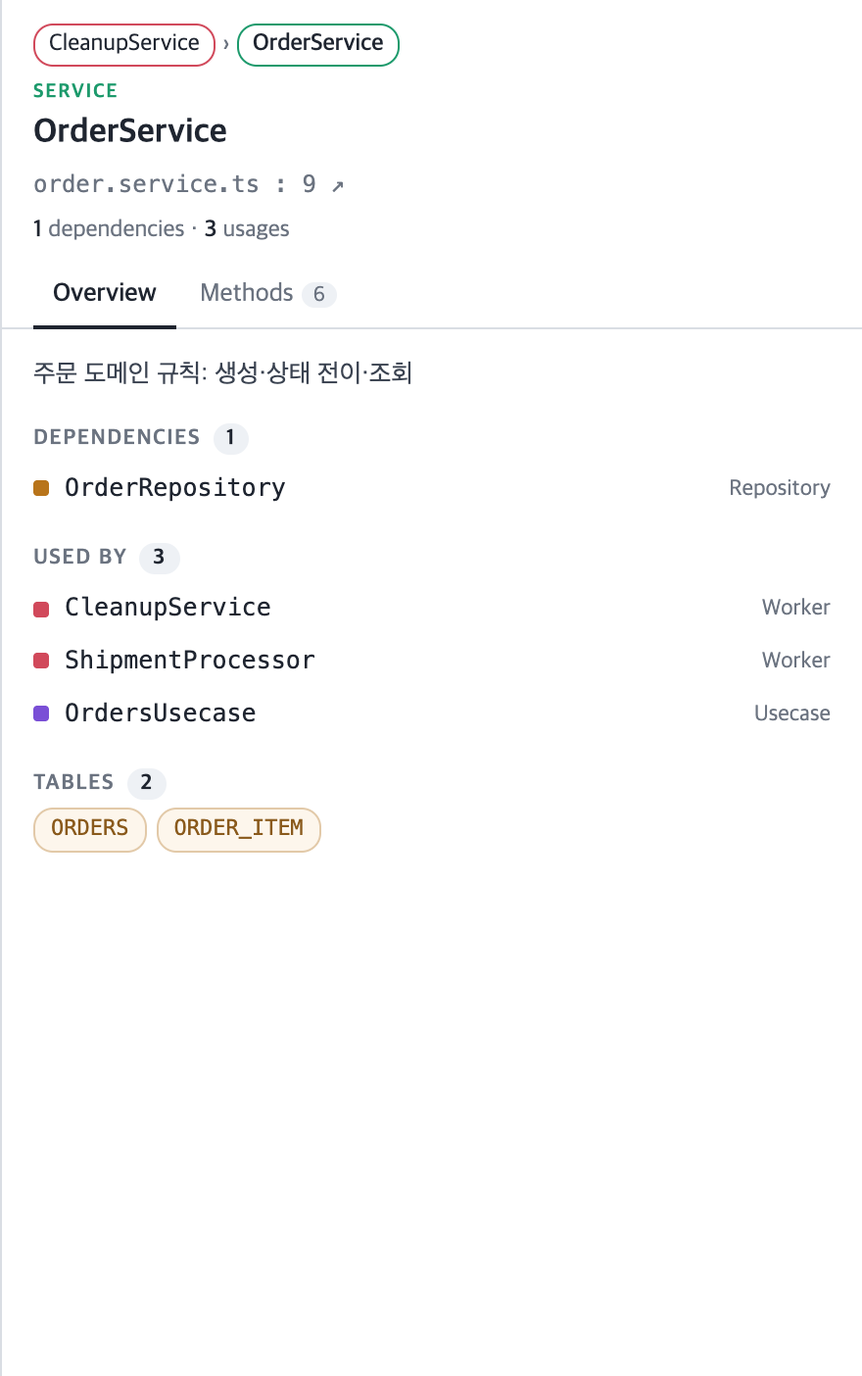
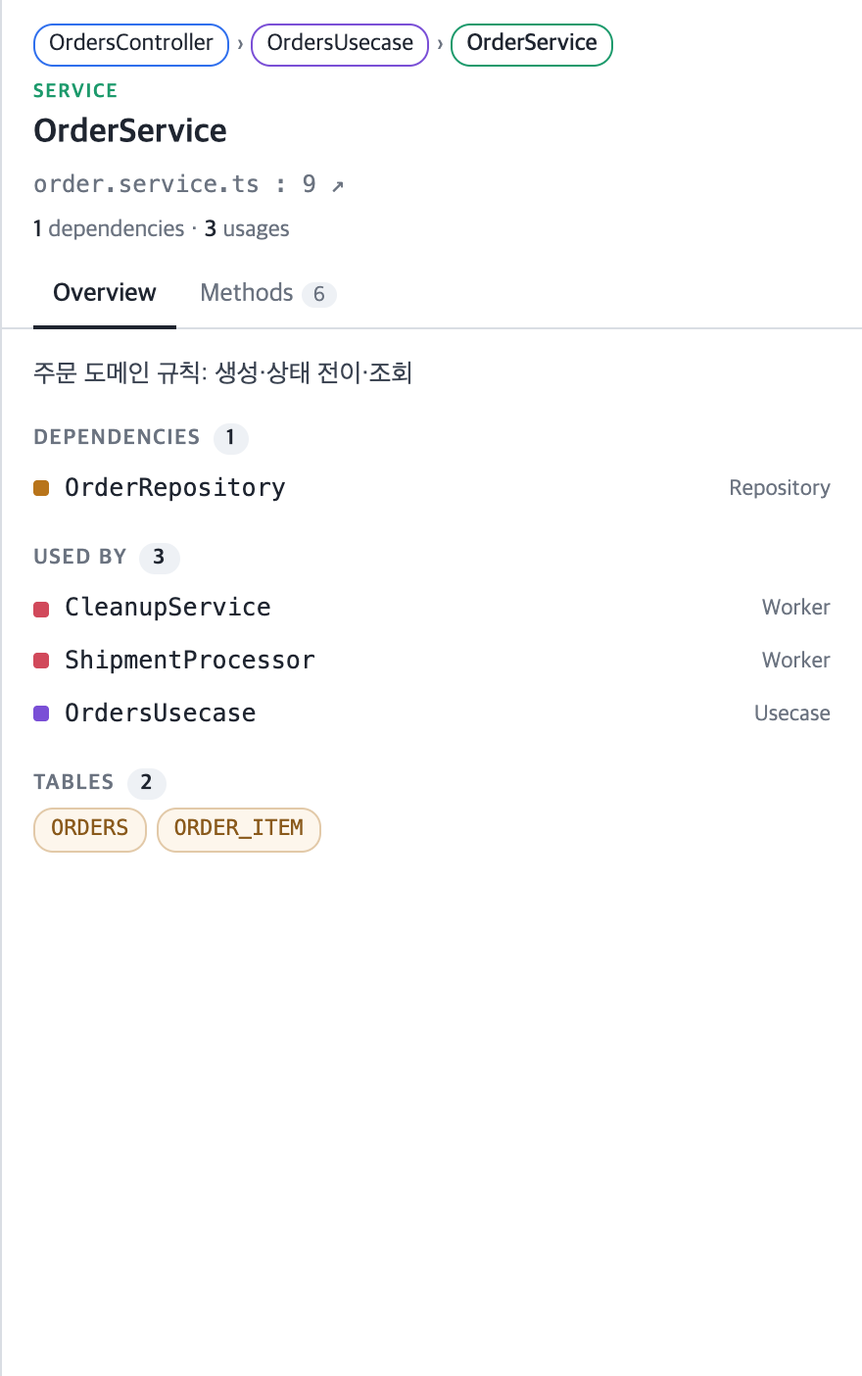
feat: 큰 프로젝트용 폴더로 펼치기·초점 모드·전부 펼치기 임계값, --init 기본 계층에 Usecase (0.3.0)
- 구조 모드 왼쪽 창: src/ 아래 folderDepth(기본 2) 단계 폴더별 클래스 수, 체크한 폴더만 그래프에 올림 (pinned)
- 초점 모드: 고른 노드로 들어오는 것 + 나가는 것만 남기고 hidden, 선택 바뀌면 재계산
- 전부 펼치기: 클래스 60개 초과 시 토스트 안내 + 폴더 목록 열기, "그래도 펼치기" 링크
- 보이는 노드끼리의 의존 간선은 항상 그림(syncEdges), 진입점에서 닿지 않는 노드도 자기 열에 배치
- 기본 layers 에 Usecase(*.usecase.ts, 1열), 설정 키 folderDepth
- README 큰 프로젝트 절 + 스크린샷 12·13, CHANGELOG

Changed region(s): [[0.0614, 0.0, 0.4909, 0.0613], [0.5216, 0.0, 0.7057, 0.0613]]

diff --git a/template/code-explorer.template.html b/template/code-explorer.template.html
@@ -34,16 +34,26 @@
   header button.plain:hover { background: var(--soft); }
   .legend { display: flex; flex-wrap: wrap; gap: 4px 10px; margin-left: auto; font-size: 12px; color: var(--muted); white-space: nowrap; }
   .legend i { display: inline-block; width: 10px; height: 10px; border-radius: 3px; margin-right: 4px; vertical-align: -1px; }
-  main { display: grid; grid-template-columns: 1fr 440px; grid-template-rows: 1fr; flex: 1 1 auto; min-height: 0; overflow: hidden; }
-  main.flow { grid-template-columns: 300px 1fr 440px; }
-  main.no-right { grid-template-columns: 1fr; }
-  main.flow.no-right { grid-template-columns: 300px 1fr; }
-  main.flow.no-left { grid-template-columns: 1fr 440px; }
-  main.flow.no-left.no-right { grid-template-columns: 1fr; }
+  main { display: grid; grid-template-columns: 300px 1fr 440px; grid-template-rows: 1fr; flex: 1 1 auto; min-height: 0; overflow: hidden; position: relative; }
+  main.no-right { grid-template-columns: 300px 1fr; }
+  main.no-left { grid-template-columns: 1fr 440px; }
+  main.no-left.no-right { grid-template-columns: 1fr; }
   main.no-right aside { display: none; }
   main.no-left #entries { display: none !important; }
-  #entries { display: none; border-right: 1px solid var(--line); background: var(--panel); overflow: auto; min-height: 0; }
-  main.flow #entries { display: block; }
+  #entries { display: block; border-right: 1px solid var(--line); background: var(--panel); overflow: auto; min-height: 0; }
+  #entries .f { display: flex; gap: 8px; align-items: center; padding: 4px 12px; cursor: pointer; font-size: 12px; font-family: ui-monospace, Menlo, monospace; }
+  #entries .f:hover { background: var(--soft); }
+  #entries .f input { margin: 0; }
+  #entries .f .nm { flex: 1 1 auto; word-break: break-all; }
+  #entries .f .cnt { color: var(--muted); font-size: 11px; }
+  #entries .fbtns { display: flex; gap: 6px; padding: 8px 12px; }
+  #entries .fbtns button { padding: 3px 8px; border: 1px solid var(--line); background: #fff; border-radius: 6px; font: inherit; font-size: 12px; cursor: pointer; }
+  #entries .fbtns button:hover { background: var(--soft); }
+  #toast { position: absolute; left: 50%; top: 16px; transform: translateX(-50%); background: #1f2530; color: #fff; padding: 10px 14px; border-radius: 8px; font-size: 13px; box-shadow: 0 4px 16px rgba(0,0,0,.2); z-index: 5; max-width: 560px; display: flex; gap: 12px; align-items: center; }
+  #toast[hidden] { display: none; }
+  #toast a { color: #9cc3ff; cursor: pointer; white-space: nowrap; }
+  #toast .x { cursor: pointer; color: #9aa3b2; }
+  header button.plain.on { background: #1f2530; color: #fff; border-color: #1f2530; }
   .panes { display: flex; gap: 4px; }
   .panes button { padding: 5px 8px; border: 1px solid var(--line); background: #fff; border-radius: 6px; font: inherit; font-size: 12px; cursor: pointer; color: var(--muted); }
   .panes button.on { background: var(--soft); color: var(--text); }
@@ -134,22 +144,20 @@
   .steps li .lv { color: var(--muted); }
   @media (max-width: 1400px) { #modeHint { display: none; } }
   @media (max-width: 1200px) {
-    main { grid-template-columns: 1fr 380px; }
-    main.flow { grid-template-columns: 260px 1fr 380px; }
-    main.flow.no-right { grid-template-columns: 260px 1fr; }
-    main.flow.no-left { grid-template-columns: 1fr 380px; }
+    main { grid-template-columns: 260px 1fr 380px; }
+    main.no-right { grid-template-columns: 260px 1fr; }
+    main.no-left { grid-template-columns: 1fr 380px; }
   }
   @media (max-width: 1000px) {
     .legend { display: none; }
-    main { grid-template-columns: 1fr 340px; }
-    main.flow { grid-template-columns: 240px 1fr 340px; }
-    main.flow.no-right { grid-template-columns: 240px 1fr; }
-    main.flow.no-left { grid-template-columns: 1fr 340px; }
+    main { grid-template-columns: 240px 1fr 340px; }
+    main.no-right { grid-template-columns: 240px 1fr; }
+    main.no-left { grid-template-columns: 1fr 340px; }
   }
   @media (max-width: 760px) {
-    main, main.flow, main.flow.no-left { grid-template-columns: 1fr 300px; }
-    main.flow.no-right, main.no-right, main.flow.no-left.no-right { grid-template-columns: 1fr; }
-    main.flow #entries { display: none !important; } /* 아주 좁으면 진입점 목록은 숨기고 그래프·상세만 */
+    main, main.no-left { grid-template-columns: 1fr 300px; }
+    main.no-right, main.no-left.no-right { grid-template-columns: 1fr; }
+    #entries { display: none !important; } /* 아주 좁으면 왼쪽 목록은 숨기고 그래프·상세만 */
   }
 </style>
 </head>
@@ -166,9 +174,10 @@
   </div>
   <button id="expandAll" class="plain">전부 펼치기</button>
   <button id="reset" class="plain">진입점만</button>
-  <span class="hint" id="modeHint">클릭: 선택·펼치기 · 더블클릭: 접기 · 검은 테두리 = 지나온 경로 · 드래그로 이동</span>
+  <button id="focus" class="plain" title="고른 노드로 들어오는 것과 거기서 나가는 것만 남기고 나머지는 숨긴다">초점</button>
+  <span class="hint" id="modeHint">클릭: 선택·펼치기 · 더블클릭: 접기 · 검은 테두리 = 지나온 경로 · 왼쪽: 폴더로 펼치기</span>
   <div class="panes">
-    <button id="toggleLeft" class="on" title="왼쪽 진입점 목록 열기/닫기 (실행 경로 모드)">◧ 목록</button>
+    <button id="toggleLeft" class="on" title="왼쪽 목록 열기/닫기 (구조: 폴더 · 실행 경로: 진입점)">◧ 목록</button>
     <button id="toggleRight" class="on" title="오른쪽 상세 창 열기/닫기">상세 ◨</button>
   </div>
   <div class="legend" id="legend"></div>
@@ -176,6 +185,7 @@
 <main id="main">
   <nav id="entries"></nav>
   <div id="graph"></div>
+  <div id="toast" hidden></div>
   <aside id="panel"><div class="empty">노드를 클릭하면 주입받는 클래스가 펼쳐지고, 여기에 그 클래스의 메서드가 나온다. "실행 경로" 모드에서는 API 나 Job 하나가 지나가는 메서드 순서를 본다.</div></aside>
 </main>
 <script>__VIS__</script>
@@ -216,9 +226,26 @@ function fitAll() { clearTimeout(fitTimer); fitTimer = setTimeout(() => network.
 // 구조 모드: 클래스 노드, 클릭으로 주입 클래스 펼치기
 // =====================================================================
 const expanded = new Set();
+const pinned = new Set(); // 폴더 목록에서 골라 보이게 한 클래스 (접기·초점에서도 유지)
 let selected = null;
 let trail = [];
+let focus = false; // 초점 모드: 고른 노드와 이어진 것만 남긴다
 const manualPos = new Map();
+let EXPAND_ALL_LIMIT = 60; // 이보다 클래스가 많으면 전부 펼치기 대신 폴더 목록을 권한다
+/** 파일 경로 → 폴더 묶음 키 (src/ 를 떼고 folderDepth 단계까지) */
+function folderOf(file) {
+  const parts = file.replace(/^src\//, '').split('/'); parts.pop();
+  return parts.slice(0, DATA.folderDepth ?? 2).join('/') || '(root)';
+}
+const FOLDERS = new Map();
+for (const c of DATA.classes) if (!isEntryLayer(c.layer)) (FOLDERS.get(folderOf(c.file)) ?? FOLDERS.set(folderOf(c.file), []).get(folderOf(c.file))).push(c.name);
+const visibleIds = () => nodes.get().filter((n) => !String(n.id).startsWith('__') && !n.hidden).map((n) => n.id);
+/** 보이는 노드끼리의 의존 간선을 전부 맞춘다 (없는 건 추가, 끝점이 사라진 건 제거) */
+function syncEdges() {
+  const vis = new Set(nodes.getIds().filter((id) => !String(id).startsWith('__')));
+  for (const e of edges.get()) if (!vis.has(e.from) || !vis.has(e.to)) edges.remove(e.id);
+  for (const a of vis) for (const d of byName[a]?.deps ?? []) if (vis.has(d)) { const id = `${a}->${d}`; if (!edges.get(id)) edges.add({ id, from: a, to: d, arrows: 'to' }); }
+}
 function nodeOf(c) {
   return { id: c.name, label: c.name, shape: 'box', margin: 8, borderWidth: 1, font: { color: '#fff', size: 13, face: 'system-ui' },
     color: { background: COLOR[c.layer], border: COLOR[c.layer] }, title: `${c.layer} · ${c.file}:${c.line} · 메서드 ${c.methods.length}개` };
@@ -229,16 +256,18 @@ const HEADERS = [
   { id: '__worker', label: ENTRY_LAYERS.slice(1).map((l) => l.entry).join(' · ') },
 ];
 function relayout() {
-  const visible = new Set(nodes.getIds().filter((id) => !String(id).startsWith('__')));
+  const visible = new Set(visibleIds());
   const cols = new Map(); const seen = new Set();
   const place = (name) => { const col = COL[byName[name].layer] ?? 2; if (!cols.has(col)) cols.set(col, []); cols.get(col).push(name); };
   const bfs = (roots) => {
     const q = roots.filter((r) => visible.has(r) && !seen.has(r)); q.forEach((r) => seen.add(r));
-    while (q.length) { const n = q.shift(); place(n); if (!expanded.has(n)) continue; for (const d of byName[n].deps) if (visible.has(d) && !seen.has(d)) { seen.add(d); q.push(d); } }
+    while (q.length) { const n = q.shift(); place(n); for (const d of byName[n].deps) if (visible.has(d) && !seen.has(d)) { seen.add(d); q.push(d); } }
   };
   const http = entries.filter((e) => byName[e].layer === ENTRY_LAYERS[0]?.name);
   const worker = entries.filter((e) => byName[e].layer !== ENTRY_LAYERS[0]?.name);
   bfs(http); const httpRows = (cols.get(0) ?? []).length; bfs(worker);
+  // 진입점에서 닿지 않는 노드(폴더로 보인 것)도 자기 열에 놓는다
+  bfs([...visible].filter((n) => !seen.has(n)).sort());
   const rowY = new Map();
   (cols.get(0) ?? []).forEach((name, i) => rowY.set(name, i * ROW_GAP + (i >= httpRows ? GROUP_GAP : 0)));
   const parentsOf = (name) => edges.get().filter((e) => e.to === name && rowY.has(e.from)).map((e) => rowY.get(e.from));
@@ -254,7 +283,7 @@ function relayout() {
   for (const [col, list] of cols) for (const name of list) updates.push(manualPos.has(name) ? { id: name, ...manualPos.get(name) } : { id: name, x: col * COL_GAP, y: rowY.get(name) });
   edges.update(edges.get().map((e) => { const same = (COL[byName[e.from]?.layer] ?? 2) === (COL[byName[e.to]?.layer] ?? 2); return { id: e.id, smooth: same ? { enabled: true, type: 'curvedCW', roundness: 0.35 } : { enabled: true, type: 'cubicBezier', forceDirection: 'horizontal', roundness: 0.4 } }; }));
   const headerNode = (h, y) => ({ id: h.id, label: h.label, shape: 'text', x: 0, y, font: { size: 12, color: '#6b7380' }, chosen: false });
-  updates.push(headerNode(HEADERS[0], -ROW_GAP * 0.8));
+  if (http.some((h) => visible.has(h))) updates.push(headerNode(HEADERS[0], -ROW_GAP * 0.8)); else if (nodes.get('__http')) nodes.remove('__http');
   if (worker.some((w) => visible.has(w))) updates.push(headerNode(HEADERS[1], httpRows * ROW_GAP + GROUP_GAP - ROW_GAP * 0.8)); else if (nodes.get('__worker')) nodes.remove('__worker');
   for (const u of updates) if (nodes.get(u.id)) nodes.update(u); else nodes.add(u);
   restyle();
@@ -280,21 +309,69 @@ function restyle() {
     return { id: e.id, color: { color: on ? base : mix(base, BG, 0.65), highlight: base, hover: base }, width: strong ? 2 : on ? 1.5 : 1 };
   }));
 }
-function expand(name) { const c = byName[name]; if (!c) return; expanded.add(name); for (const d of c.deps) { addNode(d); const id = `${name}->${d}`; if (!edges.get(id)) edges.add({ id, from: name, to: d, arrows: 'to' }); } relayout(); fitAll(); }
+function expand(name) { const c = byName[name]; if (!c) return; expanded.add(name); for (const d of c.deps) addNode(d); syncEdges(); applyFocus(); relayout(); fitAll(); }
 function collapse(name) {
   expanded.delete(name);
-  const keep = new Set(entries); const stack = [...entries];
+  const keep = new Set([...entries, ...pinned]); const stack = [...keep];
   while (stack.length) { const n = stack.pop(); if (!expanded.has(n)) continue; for (const d of byName[n].deps) if (!keep.has(d)) { keep.add(d); stack.push(d); } }
   for (const n of nodes.getIds()) if (!String(n).startsWith('__') && !keep.has(n)) { nodes.remove(n); expanded.delete(n); }
-  for (const e of edges.get()) if (!keep.has(e.from) || !keep.has(e.to) || !expanded.has(e.from)) edges.remove(e.id);
-  relayout(); fitAll();
+  syncEdges(); applyFocus(); relayout(); fitAll();
 }
-function reset() { nodes.clear(); edges.clear(); expanded.clear(); selected = null; trail = []; manualPos.clear(); entries.forEach(addNode); relayout(); fitAll(); }
-function expandAll() {
+function reset() { nodes.clear(); edges.clear(); expanded.clear(); pinned.clear(); selected = null; trail = []; manualPos.clear(); entries.forEach(addNode); renderFolders(); relayout(); fitAll(); }
+function expandAll(force) {
+  if (!force && DATA.classes.length > EXPAND_ALL_LIMIT) {
+    panes.left = true; applyPanes();
+    toast(`클래스가 ${DATA.classes.length}개라 전부 펼치면 읽을 수 없습니다. 왼쪽 폴더 목록에서 골라 펼치거나 노드를 눌러 내려가세요.`, '그래도 펼치기', () => expandAll(true));
+    return;
+  }
   nodes.clear(); edges.clear(); expanded.clear(); selected = null; trail = []; manualPos.clear(); entries.forEach(addNode);
   const q = [...entries]; const seen = new Set();
-  while (q.length) { const n = q.pop(); if (seen.has(n)) continue; seen.add(n); expanded.add(n); for (const d of byName[n].deps) { addNode(d); const id = `${n}->${d}`; if (!edges.get(id)) edges.add({ id, from: n, to: d, arrows: 'to' }); q.push(d); } }
-  relayout(); fitAll();
+  while (q.length) { const n = q.pop(); if (seen.has(n)) continue; seen.add(n); expanded.add(n); for (const d of byName[n].deps) { addNode(d); q.push(d); } }
+  syncEdges(); relayout(); fitAll();
+}
+/** 폴더 목록에서 고른 폴더의 클래스를 보이게 한다 (진입점 + 고른 폴더 + 이미 펼친 것) */
+function showFolders() {
+  pinned.clear();
+  for (const el of document.querySelectorAll('#entries .f input:checked')) for (const n of FOLDERS.get(el.dataset.f) ?? []) pinned.add(n);
+  const keep = new Set([...entries, ...pinned]); const stack = [...keep];
+  while (stack.length) { const n = stack.pop(); if (!expanded.has(n)) continue; for (const d of byName[n].deps) if (!keep.has(d)) { keep.add(d); stack.push(d); } }
+  for (const n of nodes.getIds()) if (!String(n).startsWith('__') && !keep.has(n)) { nodes.remove(n); expanded.delete(n); }
+  for (const n of keep) addNode(n);
+  syncEdges(); applyFocus(); relayout(); fitAll();
+}
+/** 초점 모드: 고른 노드로 들어오는 것 + 거기서 나가는 것만 남긴다 (나머지는 hidden) */
+function applyFocus() {
+  const ids = nodes.getIds().filter((id) => !String(id).startsWith('__'));
+  let keep = null;
+  if (focus && selected && nodes.get(selected)) {
+    keep = new Set([selected]); const es = edges.get();
+    let q = [selected]; while (q.length) { const n = q.shift(); for (const e of es) if (e.to === n && !keep.has(e.from)) { keep.add(e.from); q.push(e.from); } }
+    q = [selected]; while (q.length) { const n = q.shift(); for (const e of es) if (e.from === n && !keep.has(e.to)) { keep.add(e.to); q.push(e.to); } }
+  }
+  const updates = ids.map((id) => ({ id, hidden: keep ? !keep.has(id) : false })).filter((u) => !!nodes.get(u.id).hidden !== u.hidden);
+  if (updates.length) nodes.update(updates);
+}
+function setFocus(on) { focus = on; document.getElementById('focus').classList.toggle('on', on); const cb = document.getElementById('focusMode'); if (cb) cb.checked = on; applyFocus(); relayout(); fitAll(); }
+let toastTimer = null;
+function toast(msg, actionLabel, action) {
+  const el = document.getElementById('toast'); clearTimeout(toastTimer);
+  el.innerHTML = `<span>${esc(msg)}</span>${actionLabel ? `<a id="toastAct">${esc(actionLabel)}</a>` : ''}<span class="x" id="toastX">✕</span>`; el.hidden = false;
+  el.querySelector('#toastX').addEventListener('click', () => { el.hidden = true; });
+  if (action) el.querySelector('#toastAct').addEventListener('click', () => { el.hidden = true; action(); });
+  toastTimer = setTimeout(() => { el.hidden = true; }, 8000);
+}
+/** 구조 모드 왼쪽 창: 초점 모드 토글 + 폴더 목록(체크하면 그 폴더의 클래스가 그래프에 보인다) */
+function renderFolders() {
+  const nav = document.getElementById('entries');
+  const list = [...FOLDERS.entries()].sort((a, b) => a[0].localeCompare(b[0]));
+  nav.innerHTML = `<div class="opts"><label><input type="checkbox" id="focusMode" ${focus ? 'checked' : ''}> 초점 모드 — 고른 노드와 이어진 것만</label></div>
+    <h3>폴더로 펼치기 (${DATA.classes.length}개 클래스)</h3>
+    <div class="fbtns"><button id="fAll">모두</button><button id="fNone">해제</button></div>` +
+    list.map(([f, names]) => `<label class="f"><input type="checkbox" data-f="${esc(f)}" ${names.some((n) => pinned.has(n)) ? 'checked' : ''}><span class="nm">${esc(f)}</span><span class="cnt">${names.length}</span></label>`).join('');
+  nav.querySelectorAll('.f input').forEach((el) => el.addEventListener('change', showFolders));
+  nav.querySelector('#fAll').addEventListener('click', () => { nav.querySelectorAll('.f input').forEach((el) => { el.checked = true; }); showFolders(); });
+  nav.querySelector('#fNone').addEventListener('click', () => { nav.querySelectorAll('.f input').forEach((el) => { el.checked = false; }); showFolders(); });
+  nav.querySelector('#focusMode').addEventListener('change', (e) => setFocus(e.target.checked));
 }
 function findVisiblePath(target) {
   const out = new Map();
@@ -319,7 +396,7 @@ function updateTrail(name) {
 function goTo(name, method) {
   if (!byName[name]) return;
   if (mode !== 'structure') setMode('structure');
-  if (!nodes.get(name)) { const path = findPath(name); if (path) path.slice(0, -1).forEach((n) => { if (!expanded.has(n)) expand(n); }); else { addNode(name); relayout(); } }
+  if (!nodes.get(name)) { const path = findPath(name); if (path) path.slice(0, -1).forEach((n) => { if (!expanded.has(n)) expand(n); }); else { addNode(name); pinned.add(name); syncEdges(); relayout(); } }
   network.selectNodes([name]); showClass(name, method); fitAll();
 }
 
@@ -340,7 +417,7 @@ function methodBadges(m) {
 }
 function showClass(name, focusMethod) {
   const c = byName[name]; if (!c) return;
-  if (mode === 'structure') { selected = name; updateTrail(name); restyle(); }
+  if (mode === 'structure') { selected = name; updateTrail(name); if (focus) { applyFocus(); relayout(); fitAll(); } else restyle(); }
   // 노드를 고를 때는 항상 Overview 로 시작한다. 메서드로 직접 이동(검색·호출 목록·실행 경로 노드)할 때만 Methods 상세
   if (insp.cls !== name) insp.query = '';
   insp.cls = name; insp.tab = 'overview'; insp.method = null;
@@ -571,7 +648,8 @@ function setMode(next) {
   document.getElementById('modeFlow').classList.toggle('on', mode === 'flow');
   document.getElementById('expandAll').hidden = mode === 'flow';
   document.getElementById('reset').hidden = mode === 'flow';
-  document.getElementById('modeHint').textContent = mode === 'flow' ? '왼쪽에서 API·Job·Cron 을 고르면 그 한 건이 지나가는 메서드 순서가 그려진다' : '클릭: 선택·펼치기 · 더블클릭: 접기 · 검은 테두리 = 지나온 경로 · 드래그로 이동';
+  document.getElementById('focus').hidden = mode === 'flow';
+  document.getElementById('modeHint').textContent = mode === 'flow' ? '왼쪽에서 API·Job·Cron 을 고르면 그 한 건이 지나가는 메서드 순서가 그려진다' : '클릭: 선택·펼치기 · 더블클릭: 접기 · 검은 테두리 = 지나온 경로 · 왼쪽: 폴더로 펼치기';
   nodes.clear(); edges.clear();
   setTimeout(() => network.redraw(), 0);
   if (mode === 'flow') { renderEntries(); const first = flowEntry ?? FLOW_ENTRIES[0]; if (first) showFlow(first.cls, first.method); } else reset();
@@ -585,7 +663,6 @@ function applyPanes() {
   main.classList.toggle('no-right', !panes.right);
   document.getElementById('toggleLeft').classList.toggle('on', panes.left);
   document.getElementById('toggleRight').classList.toggle('on', panes.right);
-  document.getElementById('toggleLeft').disabled = mode !== 'flow';
   try { localStorage.setItem('explorer.panes', JSON.stringify(panes)); } catch {}
   setTimeout(() => { network.redraw(); fitAll(); }, 0);
 }
@@ -596,7 +673,7 @@ document.getElementById('modeFlow').addEventListener('click', () => setMode('flo
 network.on('click', (p) => {
   const id = p.nodes[0];
   if (mode === 'flow') { if (id) selectFlowNode(id); else { flowSelected = null; flowRestyle(); showFlowSummary(); } return; }
-  if (!id) { selected = null; trail = []; restyle(); return; }
+  if (!id) { selected = null; trail = []; if (focus) { applyFocus(); relayout(); fitAll(); } else restyle(); return; }
   if (String(id).startsWith('__')) return;
   if (!expanded.has(id)) expand(id); // 이미 펼쳐진 노드는 그대로 두고 선택만 (접기는 더블클릭)
   showClass(id);
@@ -610,8 +687,9 @@ network.on('doubleClick', (p) => {
 network.on('hoverNode', (p) => { if (!String(p.node).startsWith('__')) document.body.style.cursor = 'pointer'; });
 network.on('blurNode', () => { document.body.style.cursor = 'default'; });
 network.on('dragEnd', (p) => { if (mode !== 'structure') return; for (const id of p.nodes) { if (String(id).startsWith('__')) continue; manualPos.set(id, network.getPositions([id])[id]); } });
-document.getElementById('expandAll').addEventListener('click', expandAll);
+document.getElementById('expandAll').addEventListener('click', () => expandAll(false));
 document.getElementById('reset').addEventListener('click', reset);
+document.getElementById('focus').addEventListener('click', () => setFocus(!focus));
 
 // ---- 검색: 클래스·메서드·설명·파라미터·호출 대상·파일·라우트·테이블·에러코드 ----
 const INDEX = [];

diff --git a/src/analyze.ts b/src/analyze.ts
@@ -22,6 +22,8 @@ type QueueConfig =
 type Config = {
   /** 탐색기 제목. 생략하면 package.json 의 name (없으면 폴더 이름) + ' · code explorer' */
   title?: string;
+  /** 구조 모드 왼쪽 '폴더로 펼치기' 묶음 깊이 (src/ 를 뗀 뒤 몇 단계 폴더까지 한 묶음으로 볼지, 기본 2) */
+  folderDepth: number;
   include: string[];
   exclude: string[];
   layers: LayerConfig[];
@@ -55,10 +57,12 @@ export type RunResult = { explorer: string; markdown: string; classes: number };
 
 /** 생략 가능한 섹션의 기본값 (NestJS 표준 관례) */
 const CONFIG_DEFAULTS: Omit<Config, 'layers'> & { layers: LayerConfig[] } = {
+  folderDepth: 2,
   include: ['src'],
   exclude: ['\\.spec\\.ts$', '\\.module\\.ts$'],
   layers: [
     { name: 'Controller', match: '\\.controller\\.ts$', column: 0, color: '#2f6fed', entry: 'HTTP (Controller)' },
+    { name: 'Usecase', match: '\\.usecase\\.ts$', column: 1, color: '#7a4fd6' },
     { name: 'Service', match: '\\.service\\.ts$', column: 2, color: '#1d9a6c' },
     { name: 'Repository', match: '\\.repository\\.ts$', column: 3, color: '#b8741a' },
     { name: 'Guard', match: '\\.guard\\.ts$', column: 0, color: '#5b6b7a' },
@@ -69,7 +73,7 @@ const CONFIG_DEFAULTS: Omit<Config, 'layers'> & { layers: LayerConfig[] } = {
   defaultLayer: { name: 'Etc', column: 2, color: '#8a8f98' },
   importGraph: { ignoreTargets: '\\.(dto|entity|types?)\\.ts$' },
   classDiagramGroups: {},
-  indexOrder: ['Controller', 'Service', 'Repository', 'Guard', 'Etc'],
+  indexOrder: ['Controller', 'Usecase', 'Service', 'Repository', 'Guard', 'Etc'],
   http: { controllerDecorator: 'Controller', methodDecorators: ['Get', 'Post', 'Put', 'Patch', 'Delete'], versionDecorator: 'Version', cronDecorator: 'Cron' },
   queue: { type: 'none' },
   sql: { fileSuffix: '.sql.ts', objectSuffix: 'Sql', tableRegex: '\\b(?<!KEY\\s)(?:FROM|JOIN|UPDATE|INTO)\\s+`?([A-Z][A-Z0-9_]+)`?', ignoreTables: ['DUAL'] },
@@ -105,7 +109,7 @@ export function initConfig(file: string, opts: { force?: boolean } = {}): InitRe
   const body = {
     $comment:
       'nest-code-explorer 설정 (npx nest-code-explorer --init 이 만든 기본값). 모든 키는 생략 가능하며 생략하면 이 값이 쓰인다. ' +
-      'include/exclude: 분석 범위(루트 기준 디렉터리, 제외 정규식) · layers: 파일 경로 정규식 → 계층·열(column)·색·진입점 그룹(entry)·제외(skip) · ' +
+      'include/exclude: 분석 범위(루트 기준 디렉터리, 제외 정규식) · folderDepth: 구조 모드 폴더 묶음 깊이 · layers: 파일 경로 정규식 → 계층·열(column)·색·진입점 그룹(entry)·제외(skip) · ' +
       'http: 라우트/버전/cron 데코레이터 이름 · queue: 큐 경계 어댑터 type = none | nestjs-bullmq | manual-router · ' +
       'sql/orm: 테이블 추출 관례 · errors.className: new X(\'CODE\') 형태의 예외 클래스 · externals: 클래스 이름 정규식 → 외부 시스템 라벨(terminal: 말단) · ' +
       'output: 생성 경로. 정규식은 JSON 문자열이라 역슬래시를 두 번 쓴다.',
@@ -487,7 +491,7 @@ function main(svg: boolean): RunResult {
     ...layerRules.filter((l) => !l.skip).map((l) => ({ name: l.name, column: l.column ?? CFG.defaultLayer.column, color: l.color ?? CFG.defaultLayer.color, entry: l.entry ?? null })),
     { name: CFG.defaultLayer.name, column: CFG.defaultLayer.column, color: CFG.defaultLayer.color, entry: null },
   ];
-  const explorerData = { generatedAt: new Date().toISOString(), root: ROOT, layers: uiLayers, classes: explorerClasses, jobHandlers, baseRepoMethods: BASE_REPO_METHODS };
+  const explorerData = { generatedAt: new Date().toISOString(), root: ROOT, folderDepth: CFG.folderDepth, layers: uiLayers, classes: explorerClasses, jobHandlers, baseRepoMethods: BASE_REPO_METHODS };
   const visPath = CFG.output.visNetwork ? path.join(ROOT, CFG.output.visNetwork) : require.resolve('vis-network/standalone/umd/vis-network.min.js');
   const templatePath = CFG.output.template ? path.join(ROOT, CFG.output.template) : path.join(PKG, 'template/code-explorer.template.html');
   const visJs = readFileSync(visPath, 'utf8');

diff --git a/scripts/readme-shots.js b/scripts/readme-shots.js
@@ -80,6 +80,16 @@ const sleep = (ms) => new Promise((r) => setTimeout(r, ms));
   await page.evaluate(() => { goTo('OrderService', 'findDetail'); });
   await shot('07-inspector-method.png', '#panel');
 
+  // 5b) 폴더로 펼치기 + 초점 모드
+  await page.reload({ waitUntil: 'networkidle0' }); // 검색·상세 창 상태를 비운다
+  await page.evaluate(() => { panes.left = true; applyPanes(); });
+  await sleep(500);
+  await page.evaluate(() => { for (const cb of document.querySelectorAll('#entries .f input')) if (/domains\/(order|payment)/.test(cb.dataset.f)) { cb.checked = true; cb.dispatchEvent(new Event('change')); } });
+  await shot('12-folders.png');
+  await page.evaluate(() => { goTo('OrderService'); setFocus(true); });
+  await shot('13-focus.png');
+  await page.evaluate(() => { setFocus(false); reset(); });
+
   // 6) 실행 경로 모드: POST /v1/orders 가 큐 너머 Worker 까지
   await page.setViewport({ width: 1800, height: 820, deviceScaleFactor: 2 });
   await page.evaluate(() => { setMode('flow'); });

diff --git a/README.md b/README.md
@@ -30,7 +30,7 @@ NestJS 프로젝트 루트(`tsconfig.json` 이 있는 폴더)에서 한 줄.
 npx nest-code-explorer --open
 ```
 
-설치할 것은 없다. 첫 실행은 npx 가 패키지를 받느라 10초쯤 걸리고, 끝나면 `docs/code-explorer.html` 이 생기고 브라우저가 열린다. `*.controller.ts` / `*.service.ts` / `*.repository.ts` / `*.guard.ts` 관례를 쓰는 프로젝트라면 여기서 끝이다.
+설치할 것은 없다. 첫 실행은 npx 가 패키지를 받느라 10초쯤 걸리고, 끝나면 `docs/code-explorer.html` 이 생기고 브라우저가 열린다. `*.controller.ts` / `*.usecase.ts` / `*.service.ts` / `*.repository.ts` / `*.guard.ts` 관례를 쓰는 프로젝트라면 여기서 끝이다.
 
 ### 2. 잘못 잡힌 게 있으면 설정 파일을 만든다
 
@@ -136,6 +136,18 @@ npx nest-code-explorer --open
 | 요약 패널 (POST /v1/orders, 큐 너머까지 16개 메서드) | cron 진입점 |
 | --- | --- |
 | ![요약](https://raw.githubusercontent.com/whalebanana86/nest-code-explorer/main/docs/screenshots/10-flow-summary.png) | ![cron](https://raw.githubusercontent.com/whalebanana86/nest-code-explorer/main/docs/screenshots/11-flow-cron.png) |
+
+### 큰 프로젝트에서 — 폴더로 펼치기, 초점 모드
+
+클래스가 수백 개면 "전부 펼치기" 는 읽을 수 없는 실뭉치가 된다. 그래서 세 가지를 둔다.
+
+- **폴더로 펼치기**: 구조 모드의 왼쪽 목록은 폴더(`contexts/admin`, `domains/member` 처럼 `src/` 아래 두 단계, `folderDepth` 로 조절)별 클래스 수를 보여 주고, 체크한 폴더의 클래스만 그래프에 올린다. 거기서 노드를 누르면 폴더 밖 의존으로 더 내려간다.
+- **초점 모드** (헤더 `초점` 버튼 또는 왼쪽 체크박스): 고른 노드로 들어오는 것과 거기서 나가는 것만 남기고 나머지는 숨긴다. 다른 노드를 고르면 그 기준으로 다시 잡힌다.
+- **전부 펼치기 임계값**: 클래스가 60개를 넘으면 전부 펼치기 대신 안내를 띄우고 폴더 목록을 연다. 그래도 보고 싶으면 안내의 링크로 펼친다.
+
+| 폴더로 펼치기 (`domains/order`, `domains/payment` 체크) | 초점 모드 (`OrderService` 기준) |
+| --- | --- |
+| ![폴더로 펼치기](https://raw.githubusercontent.com/whalebanana86/nest-code-explorer/main/docs/screenshots/12-folders.png) | ![초점 모드](https://raw.githubusercontent.com/whalebanana86/nest-code-explorer/main/docs/screenshots/13-focus.png) |
 
 ### 그 밖에
 

diff --git a/CHANGELOG.md b/CHANGELOG.md
@@ -1,5 +1,14 @@
 # Changelog
 
+## 0.3.0 (2026-09-17)
+
+- 구조 모드 왼쪽 창에 **폴더로 펼치기**: `src/` 아래 `folderDepth`(기본 2) 단계 폴더별 클래스 수를 보여 주고 체크한 폴더의 클래스만 그래프에 올린다. 진입점에서 닿지 않는 노드도 자기 열에 배치한다.
+- **초점 모드**(헤더 `초점` 버튼 / 왼쪽 체크박스): 고른 노드로 들어오는 것 + 거기서 나가는 것만 남기고 나머지는 숨긴다.
+- **전부 펼치기 임계값**: 클래스가 60개를 넘으면 안내를 띄우고 폴더 목록을 연다("그래도 펼치기" 링크로 강제 가능).
+- 보이는 노드끼리의 의존 간선은 펼침 여부와 상관없이 항상 그린다 (이전에는 펼친 노드에서 나가는 간선만).
+- `--init` 기본 계층에 `Usecase`(`*.usecase.ts`, 1열) 추가. 설정 키 `folderDepth` 추가.
+- 왼쪽 목록 토글(◧)이 구조 모드에서도 동작한다.
+
 ## 0.2.4 (2026-09-17)
 
 - 실행 경로 모드의 테이블 노드를 높이 고정 원통으로 직접 그린다. vis 의 `database` 모양은 라벨이 길수록 높이도 커져서 테이블끼리 겹치고 글자 양끝이 잘렸다.
